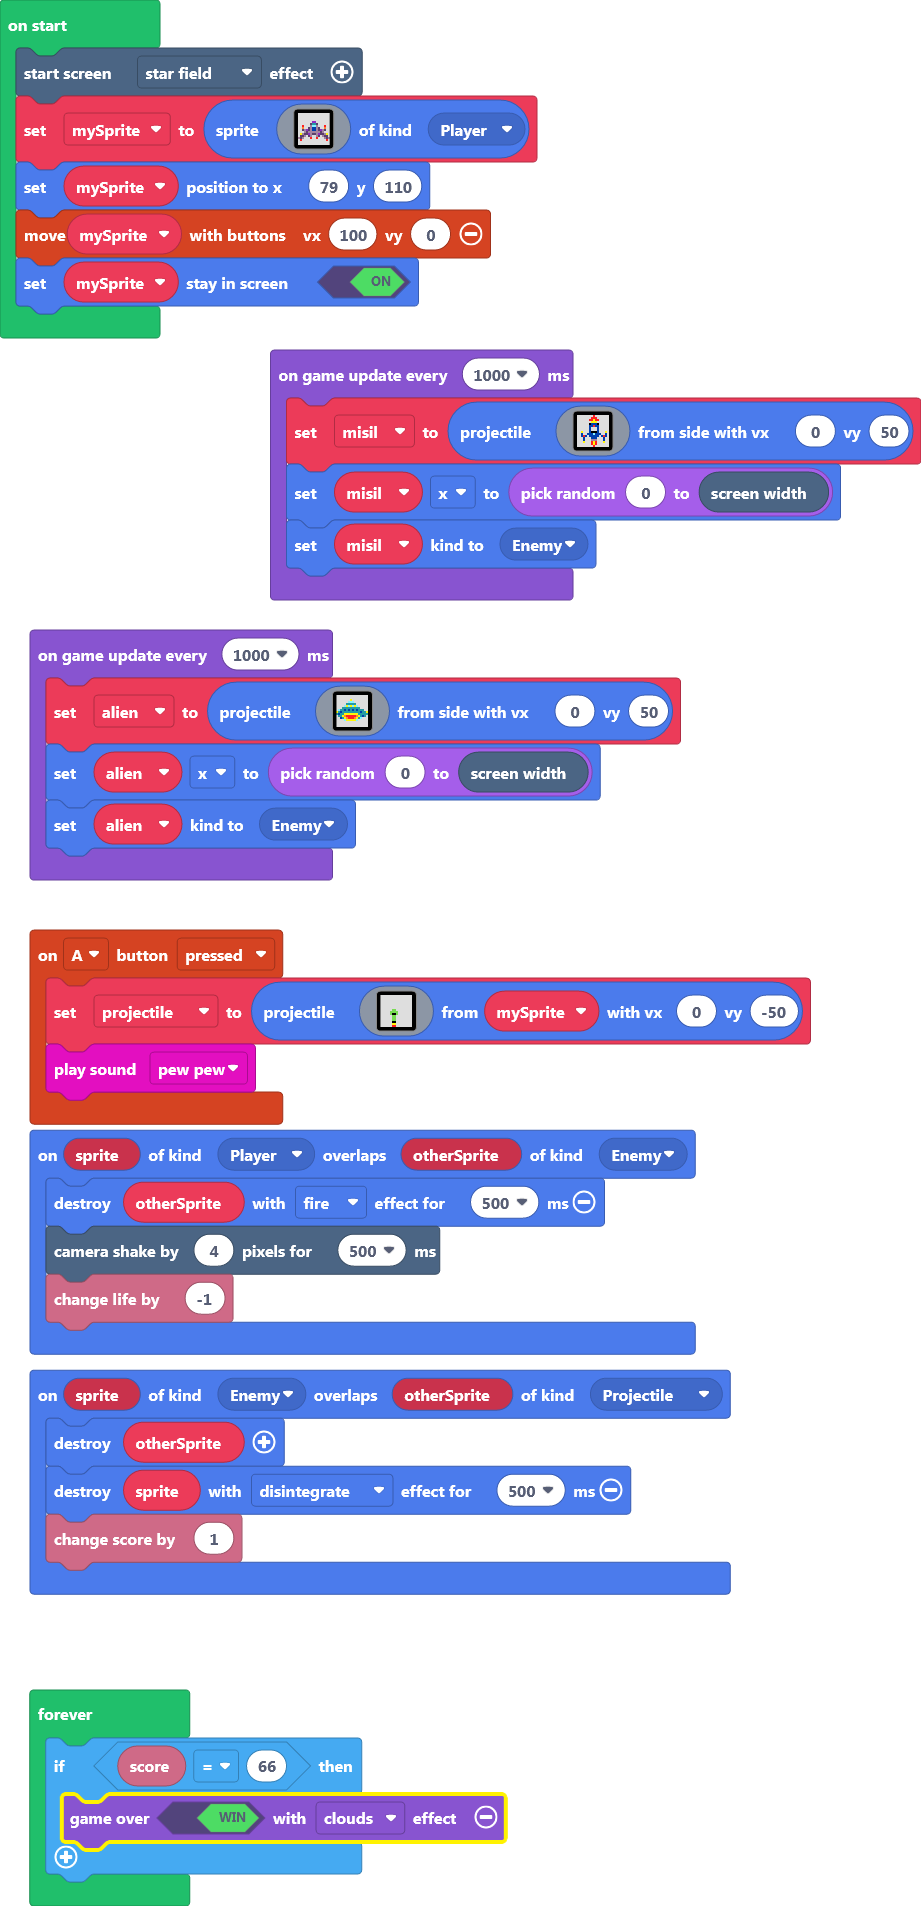
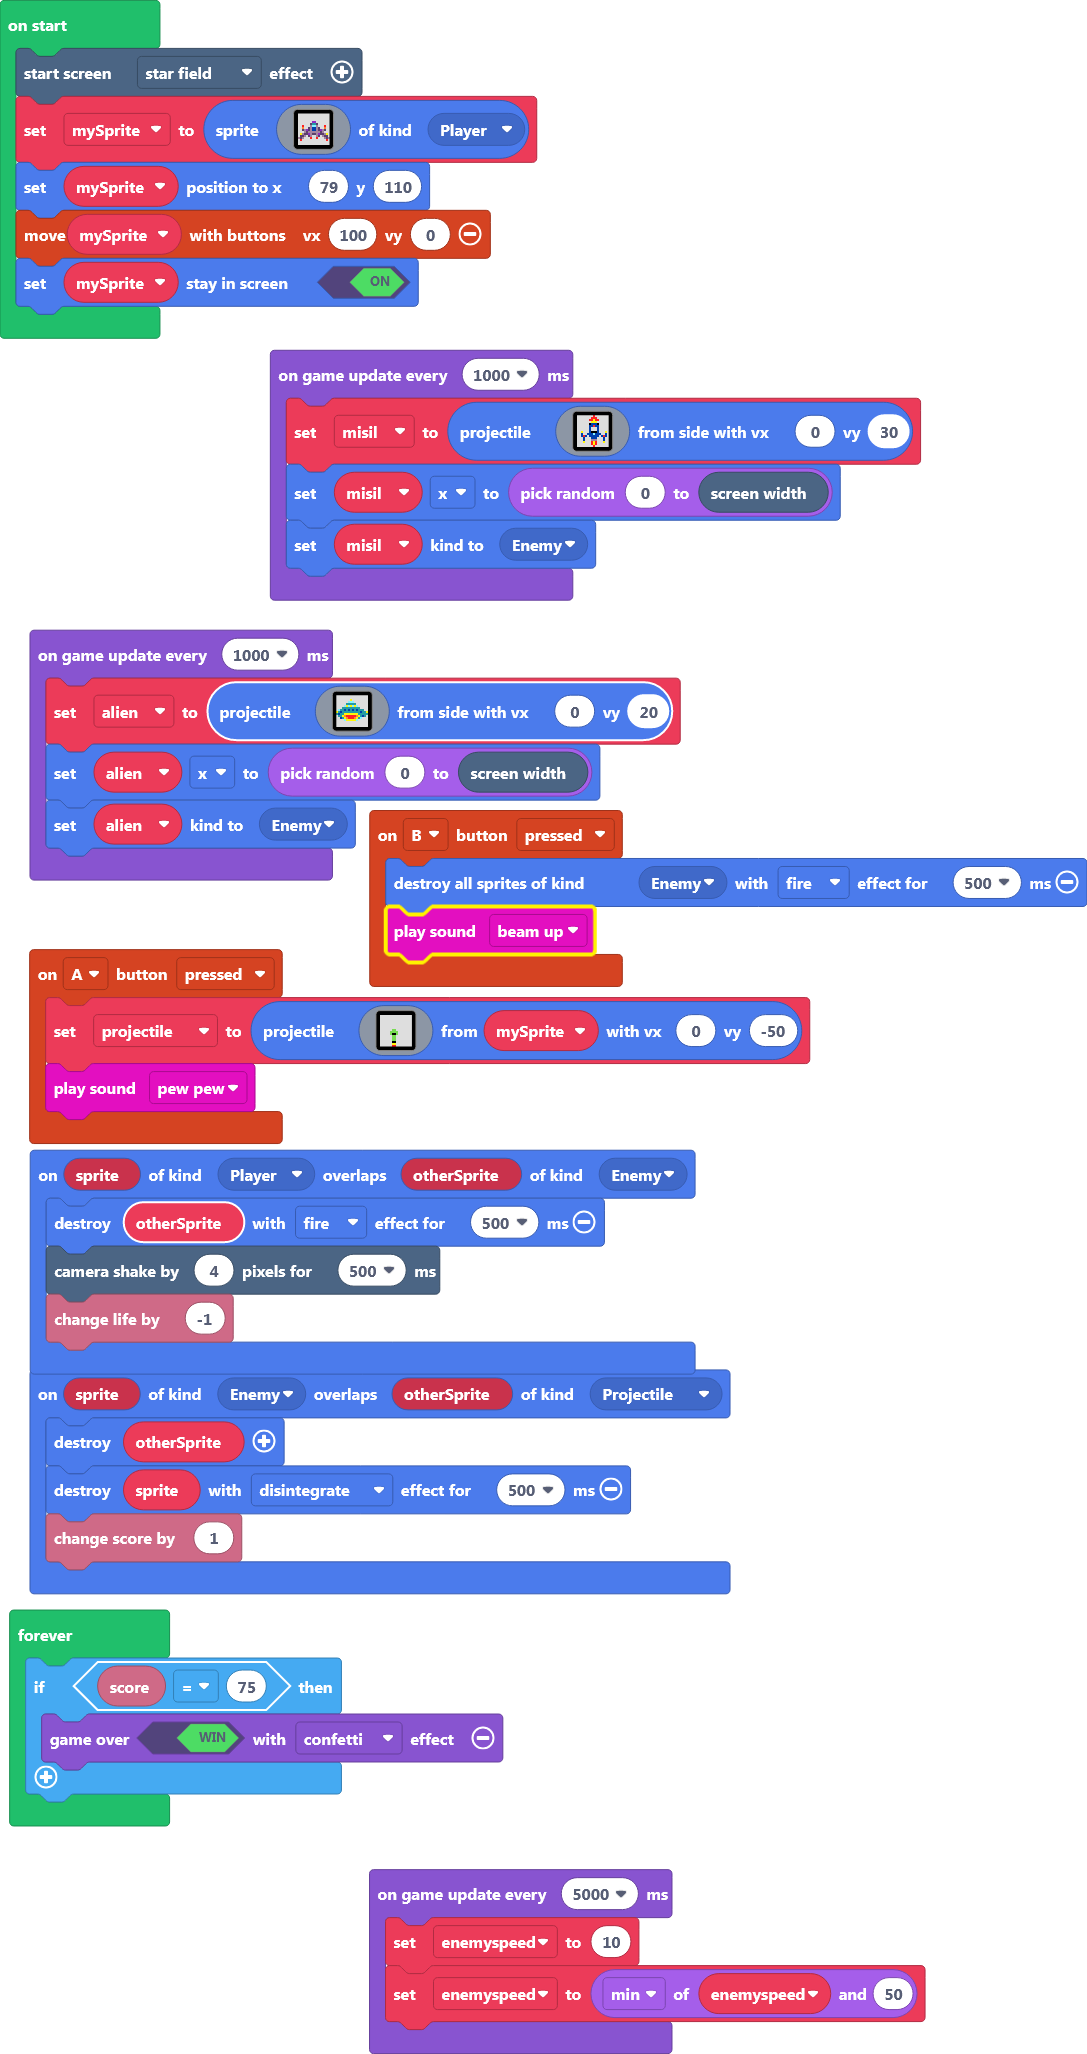
Update main.blocks, main.ts, images.g.jres, images.g.ts

diff --git a/images.g.ts b/images.g.ts
@@ -79,25 +79,6 @@ b c b . . . 2 . . 2 . . . b c b
 . . . . . . . 2 5 2 . . . . . . 
 . . . . . . . . 2 . . . . . . . 
 `;
-            case "image5":
-            case "myImage":return img`
-. . . . . . . . . . . . . . . . 
-. . . . . . . . . . . . . . . . 
-. . . . . . . . . . . . . . . . 
-. . . . . . . . . . . . . . . . 
-. . . . . . . . . . . . . . . . 
-. . . . . . . . . . . . . . . . 
-. . . . . . . . . . . . . . . . 
-. . . . . . . . . . . . . . . . 
-. . . . . . . . . . . . . . . . 
-. . . . . . . . . . . . . . . . 
-. . . . . . . . . . . . . . . . 
-. . . . . . . . . . . . . . . . 
-. . . . . . . . . . . . . . . . 
-. . . . . . . . . . . . . . . . 
-. . . . . . . . . . . . . . . . 
-. . . . . . . . . . . . . . . . 
-`;
             case "image6":
             case "1st boss":return img`
 . . . 2 . . . 2 . . . 2 . . . . 
@@ -134,6 +115,63 @@ b c c 1 f f 8 2 8 f f 1 c c b .
 . . . . . b b b b . . . . . . . 
 . . . . . . . . . . . . . . . . 
 . . . . . . . . . . . . . . . . 
+. . . . . . . . . . . . . . . . 
+`;
+            case "image8":
+            case "power_up_player":return img`
+. . . . . . . . b . . . . . . . 
+. . . . . . a b b b a . . . . . 
+. . . . . . b f d f b . . . . . 
+. . . . . . b a d a b . . . . . 
+. . . . . . b b d b b . . . . . 
+. . . . . . b a d a b . . . . . 
+. . . c . b d f 6 f d b . c . . 
+. . . c b d f 6 9 6 f d b c . . 
+. . . b d f 6 9 9 9 6 f d b . . 
+. . b c f 1 6 6 8 6 6 1 f c b . 
+. b c c 1 f f 8 2 8 f f 1 c c b 
+. b d c 1 1 f 1 d 1 f 1 1 c d b 
+. . b f f b b 1 d 1 b b f f b . 
+. . . b 5 b . b 5 b . b 5 b . . 
+. . . 5 2 5 . 5 2 5 . 5 2 5 . . 
+. . . . 2 . . . 2 . . . 2 . . . 
+`;
+            case "image9":
+            case "power_up_shoot":return img`
+. . . . . . . . . . . . . . . . 
+. . . . . . . . . . . . . . . . 
+. . . . . . . . . . . . . . . . 
+. . . . . . . . . . . . . . . . 
+. . . . . . . . . . . . . . . . 
+. . . . . . . . . . . . . . . . 
+. . . . . . . . . . . . . . . . 
+. . . . . . 7 7 . . . . . . . . 
+. 7 7 . . 7 7 7 7 . . . 7 7 . . 
+7 f f 7 . 7 f f 7 . . 7 f f 7 . 
+. 7 7 . . . 7 7 . . . . 7 7 . . 
+. 7 7 . . . 7 7 . . . . 7 7 . . 
+. 7 7 . . . 7 7 . . . . 7 7 . . 
+. f f . . . f f . . . . f f . . 
+. 5 5 . . . 5 5 . . . . 5 5 . . 
+. . . . . . 2 2 . . . . . . . . 
+`;
+            case "image5":
+            case "mine":return img`
+. . . . . . . . . . . . . . . . 
+1 1 . . . . . 1 f 1 . . . . . . 
+f f 1 . . . 1 f . 1 . . . . . . 
+f 1 f 1 . 1 f . f 1 . . . . . . 
+. f . f 1 f f f f f e . . . . . 
+. 1 f . f e d d d 1 f e . . . . 
+. . 1 f e d d d d 1 d f . . . . 
+. . 1 f d d e d e d d d f . . . 
+. . . e d d d e e 1 d d f . . . 
+. . . e d d d 1 1 d d d e . . . 
+. 1 f e e f 1 1 f f e e e . . . 
+1 f f f f 1 d f e d f e f . . . 
+f . f 1 e d d d f d d f . . . . 
+1 f 1 . f f e d d d f . . . . . 
+. . . . . . f f f f . . . . . . 
 . . . . . . . . . . . . . . . . 
 `;
         }

diff --git a/main.ts b/main.ts
@@ -1,3 +1,7 @@
+controller.B.onEvent(ControllerButtonEvent.Pressed, function () {
+    sprites.destroyAllSpritesOfKind(SpriteKind.Enemy, effects.fire, 500)
+    music.beamUp.play()
+})
 controller.A.onEvent(ControllerButtonEvent.Pressed, function () {
     projectile = sprites.createProjectileFromSprite(assets.image`shoot`, mySprite, 0, -50)
     music.pewPew.play()
@@ -14,6 +18,7 @@ sprites.onOverlap(SpriteKind.Player, SpriteKind.Enemy, function (sprite, otherSp
 })
 let alien: Sprite = null
 let misil: Sprite = null
+let enemyspeed = 0
 let projectile: Sprite = null
 let mySprite: Sprite = null
 effects.starField.startScreenEffect()
@@ -21,18 +26,22 @@ mySprite = sprites.create(assets.image`falconX`, SpriteKind.Player)
 mySprite.setPosition(79, 110)
 controller.moveSprite(mySprite, 100, 0)
 mySprite.setStayInScreen(true)
+game.onUpdateInterval(5000, function () {
+    enemyspeed = 10
+    enemyspeed = Math.min(enemyspeed, 50)
+})
 game.onUpdateInterval(1000, function () {
-    misil = sprites.createProjectileFromSide(assets.image`misile`, 0, 50)
+    misil = sprites.createProjectileFromSide(assets.image`misile`, 0, 30)
     misil.x = randint(0, scene.screenWidth())
     misil.setKind(SpriteKind.Enemy)
 })
 game.onUpdateInterval(1000, function () {
-    alien = sprites.createProjectileFromSide(assets.image`ufo`, 0, 50)
+    alien = sprites.createProjectileFromSide(assets.image`ufo`, 0, 20)
     alien.x = randint(0, scene.screenWidth())
     alien.setKind(SpriteKind.Enemy)
 })
 forever(function () {
-    if (info.score() == 66) {
-        game.over(true, effects.clouds)
+    if (info.score() == 75) {
+        game.over(true, effects.confetti)
     }
 })
